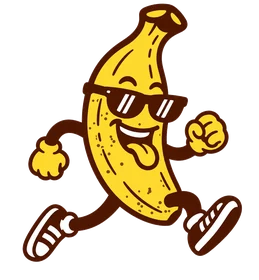
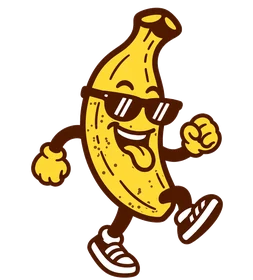
Banana runner: 5-frame run cycle (adds landing and push-off frames)
- New supplied frames: landing (front foot down) and push-off (back foot
  kicking off). Motion ticks and the landing ground shadow are removed;
  the sole outline under the landing shoe is redrawn where the shadow
  was cut away.
- Cycle is now landing, stride, passing, push-off, stride, looped in
  order (was a 3-frame ping-pong). Jumps use the push-off frame.
- All 5 frames share one crop; freckles/spots for the riper stages now
  follow the body's position in each frame so they don't slide.
- Animation rate nudged to 11 fps so a full stride takes about as long
  as before.

Claude-Session: https://claude.ai/code/session_01LBA5R6bGPXkAsu8WUT4KZn

Changed region(s): [[0.083, 0.0, 0.9407, 1.0]]

diff --git a/public/banana-runner.js b/public/banana-runner.js
@@ -226,12 +226,12 @@ const Sound = {
 // Official brand art, loaded from the site (same origin, so the site CSP allows it).
 const ART = { throne: new Image(), runner: [] };
 ART.throne.src = 'main-slider/main-banana-first.webp';
-// Official running mascot: a 3-frame run cycle (stride, passing, stride) for each
-// ripeness stage. ART.runner[stage][frame]. All frames share one crop, so the
+// Official running mascot: a 5-frame run cycle (landing, stride, passing, push-off,
+// stride) for each ripeness stage. ART.runner[stage][frame]. All frames share one crop, so the
 // character keeps the same scale and ground line between frames. The yellow frames
 // are the supplied art; the other stages are recoloured / spotted from them.
 for (const n of ['green', 'yellow', 'freckled', 'spotty', 'gone']) {
-  ART.runner.push([0, 1, 2].map(i => {
+  ART.runner.push([0, 1, 2, 3, 4].map(i => {
     const img = new Image();
     img.src = `game/runner-${n}-${i}.webp`;
     return img;
@@ -331,15 +331,15 @@ const SPRITES = {
      opts: stage 0-4, pose 'run'|'jump'|'sit', frame 0-2, sx, sy, scale,
            alpha, glow (0-1), rot */
   banana(ctx, x, y, o = {}) {
-    // Jumping uses the full-stride frame.
-    const img = ART.runner[clamp(o.stage || 0, 0, 4)][o.pose === 'jump' ? 0 : (o.frame || 0) % 3];
+    // Jumping uses the push-off frame (knee up, back foot kicking off).
+    const img = ART.runner[clamp(o.stage || 0, 0, 4)][o.pose === 'jump' ? 3 : (o.frame || 0) % 5];
     if ((o.pose || 'run') !== 'sit' && artReady(img)) return SPRITES._runnerArt(ctx, x, y, o, img);
     return SPRITES.bananaDrawn(ctx, x, y, o);
   },
 
   /** Draws the official running-mascot art. Same anchor/opts as banana(). */
   _runnerArt(ctx, x, y, o, img) {
-    const h = 123, w = h * img.naturalWidth / img.naturalHeight;
+    const h = 126, w = h * img.naturalWidth / img.naturalHeight;
     // The frames carry the run animation; a jump just leans back a little.
     const lean = o.pose === 'jump' ? -0.12 : 0;
     ctx.save();
@@ -1079,8 +1079,8 @@ class Player {
     }
 
     if (this.onGround) {
-      this.animT += dt * 9 * (game.speed / CFG.startSpeed);
-      this.frame = [0, 1, 2, 1][Math.floor(this.animT) % 4];   // ping-pong through the run cycle
+      this.animT += dt * 11 * (game.speed / CFG.startSpeed);
+      this.frame = Math.floor(this.animT) % 5;   // loop the 5-frame run cycle
     }
     this.hurt = Math.max(0, this.hurt - dt);
     this.tooCool = Math.max(0, this.tooCool - dt);
